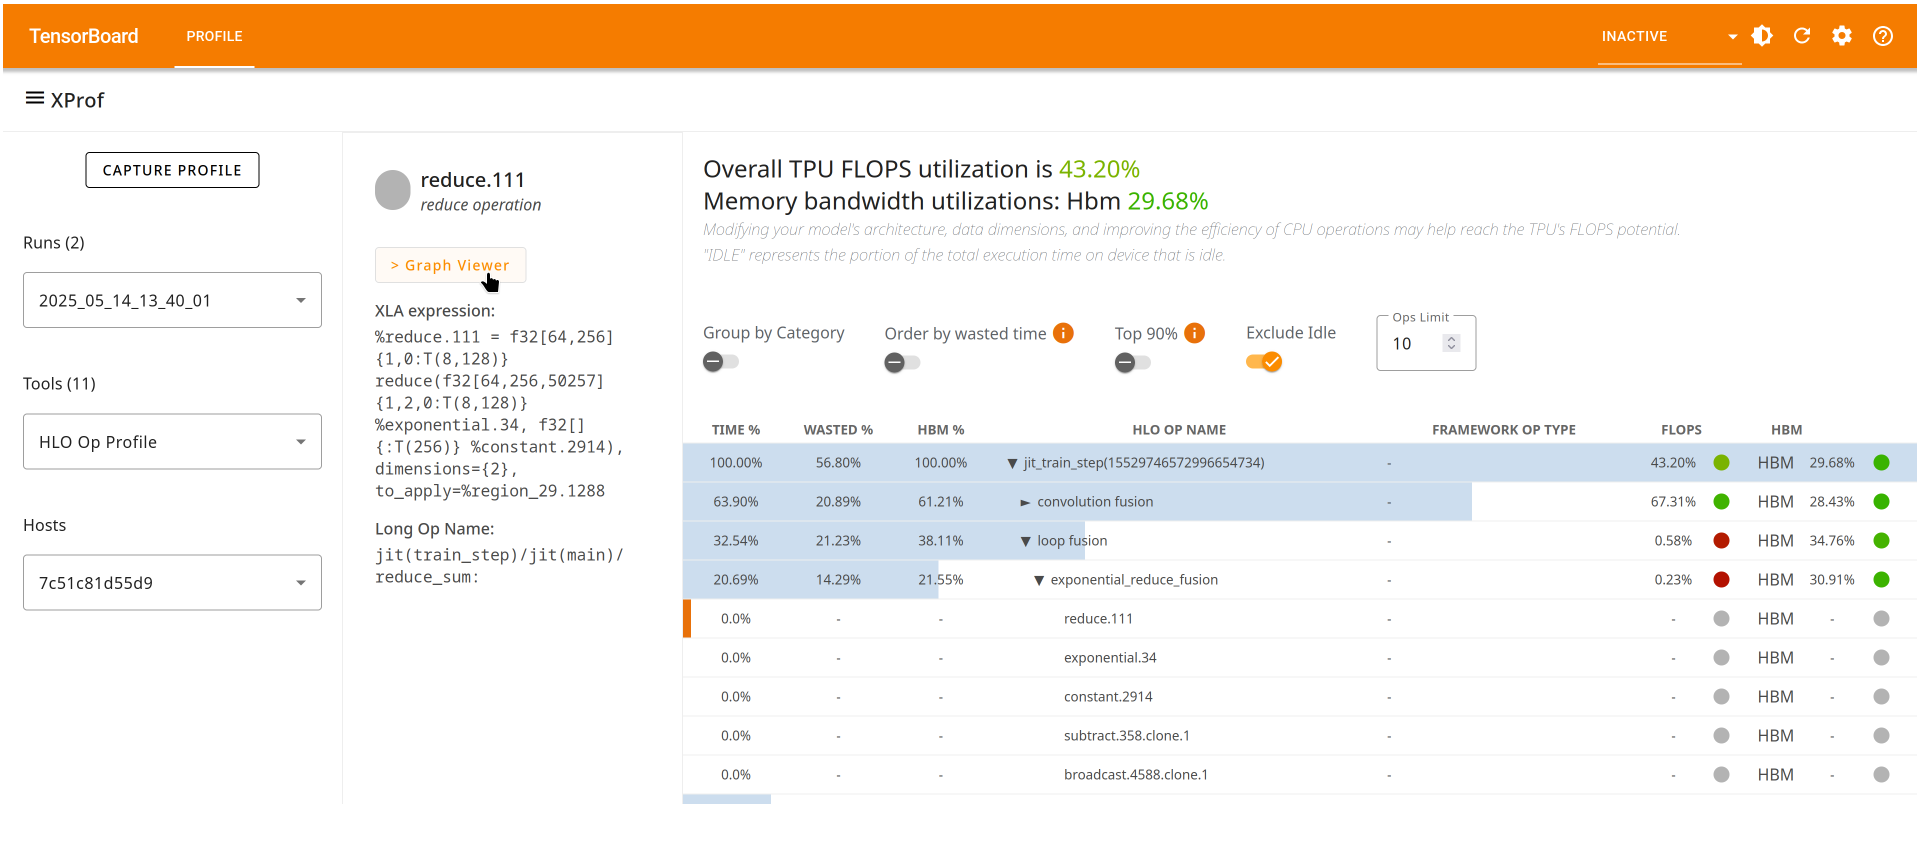
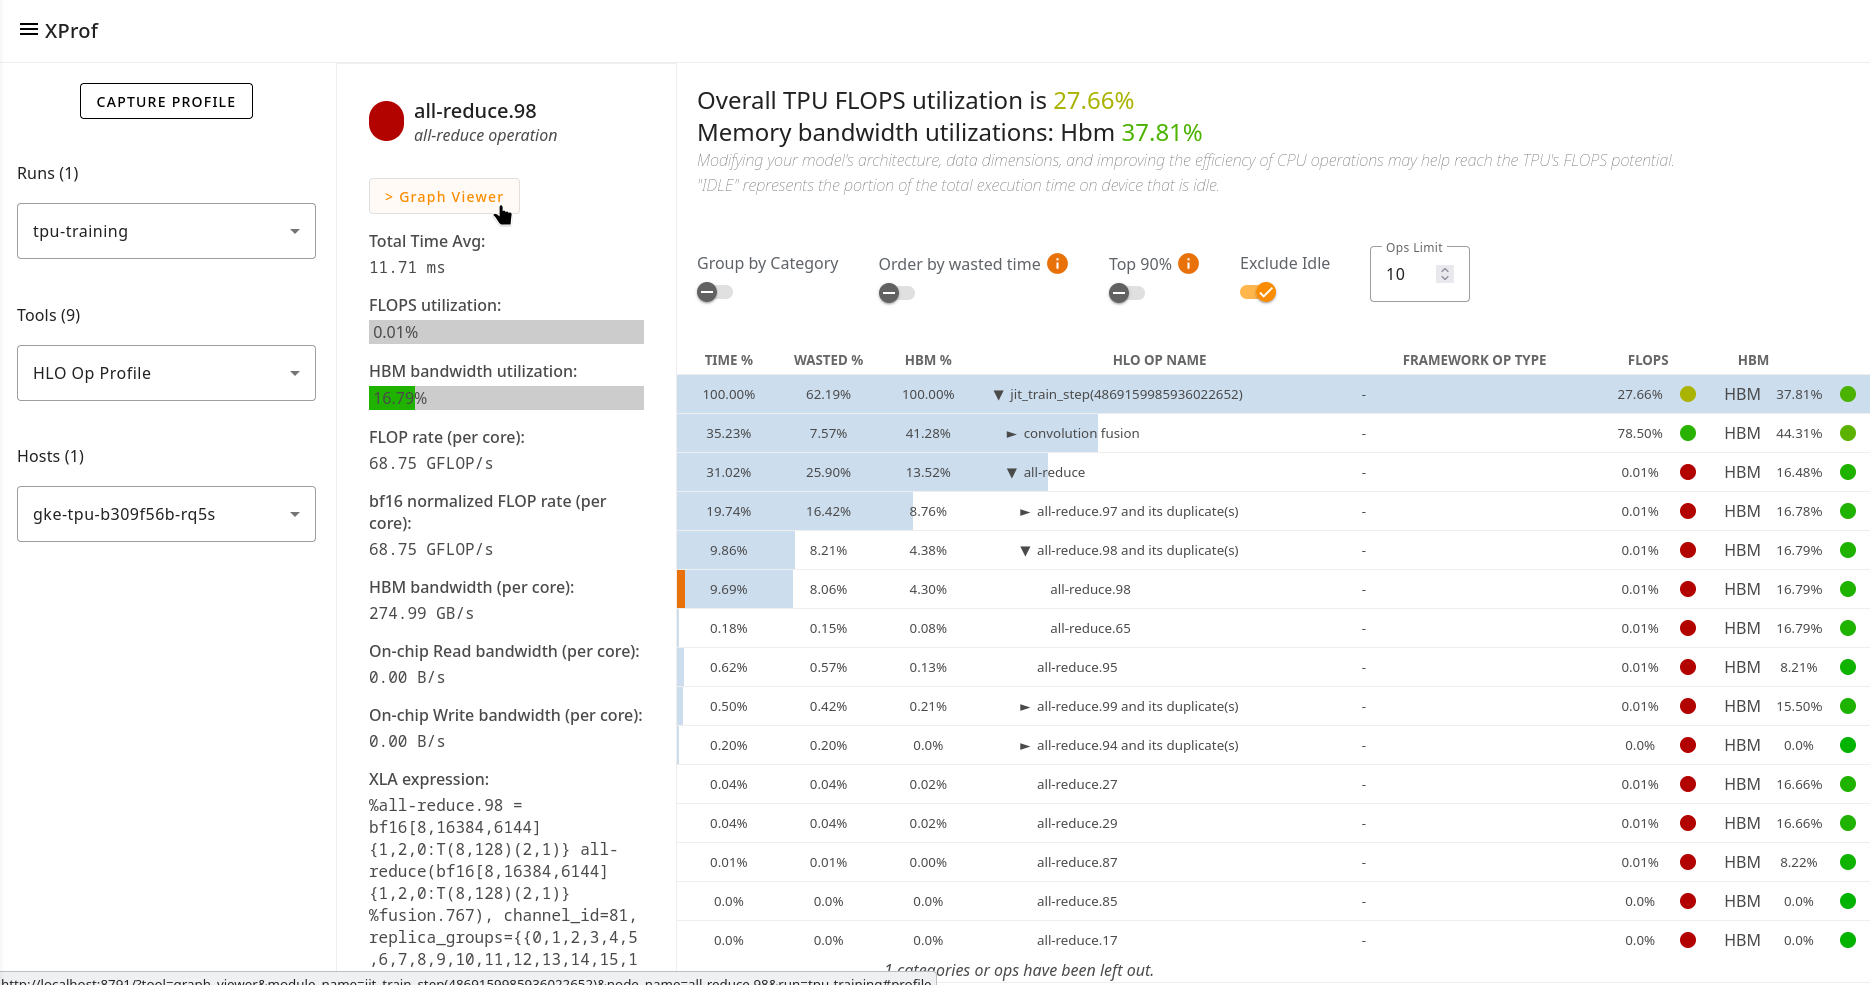
Update screenshots

diff --git a/docs/framework_op_stats.md b/docs/framework_op_stats.md
@@ -8,9 +8,7 @@ time-consuming operations during the profiled period.
 
 ### Supported Platforms
 
-TPU: Supported
-
-GPU: Supported
+Both TPU and GPU are supported.
 
 ### Framework Op Stats Components
 
@@ -24,6 +22,9 @@ Framework Op Stats has the following key components:
     *   Search boxes let you filter by host/device, the operation type, or the
         operation name; the filters select for the provided string that appears
         anywhere within the respective column.
+
+    ![Framework Op Stats table](images/framework_op_stats-operations.png)
+
 *   Summarized charts section: This section has charts that summarize the
     detailed per-op table, in the following ways:
     *   A pair of pie charts (one for the accelerator and one for the host) that
@@ -32,12 +33,17 @@ Framework Op Stats has the following key components:
     *   A pie chart that shows the fraction of time consumed by different
         individual framework ops (truncated to the top-N ops, with the remaining
         classified as “Other” to improve readability)
+
+    ![Framework Op Stats pie charts](images/framework_op_stats.png)
+
 *   Summarized tables section: This section has a pair of tables (one for the
     accelerator and one for the host), with the number of occurrences, and total
     time consumed (both in absolute terms and as a fraction of total session
     time) by different categories of framework ops.
 *   A drop-down selector lets you decide whether or not to include any idle time
     within the pie charts and summary tables.
+
+    ![Framework Op Stats summarized tables](images/framework_op_stats-summarized.png)
 
 ### Framework Operation Statistics Table Details
 

diff --git a/docs/graph_viewer.md b/docs/graph_viewer.md
@@ -51,7 +51,7 @@ from [Op Profile](hlo_op_profile.md) to identify the most time consuming op, or
 Clicking the op in those tools will give you a direct link into the same op
 within Graph Viewer.
 
-![Graph Viewer button appears when the reduce.111 operation is clicked on the HLO Op Profile tool](images/graph_viewer_from_op_profile.png)
+![Graph Viewer button appears when the all-reduce.98 operation is clicked on the HLO Op Profile tool](images/graph_viewer_from_op_profile.png)
 
 By hovering over a box (representing an HLO operation), you might often see the
 line of your user code corresponding to the op where the function was defined.
